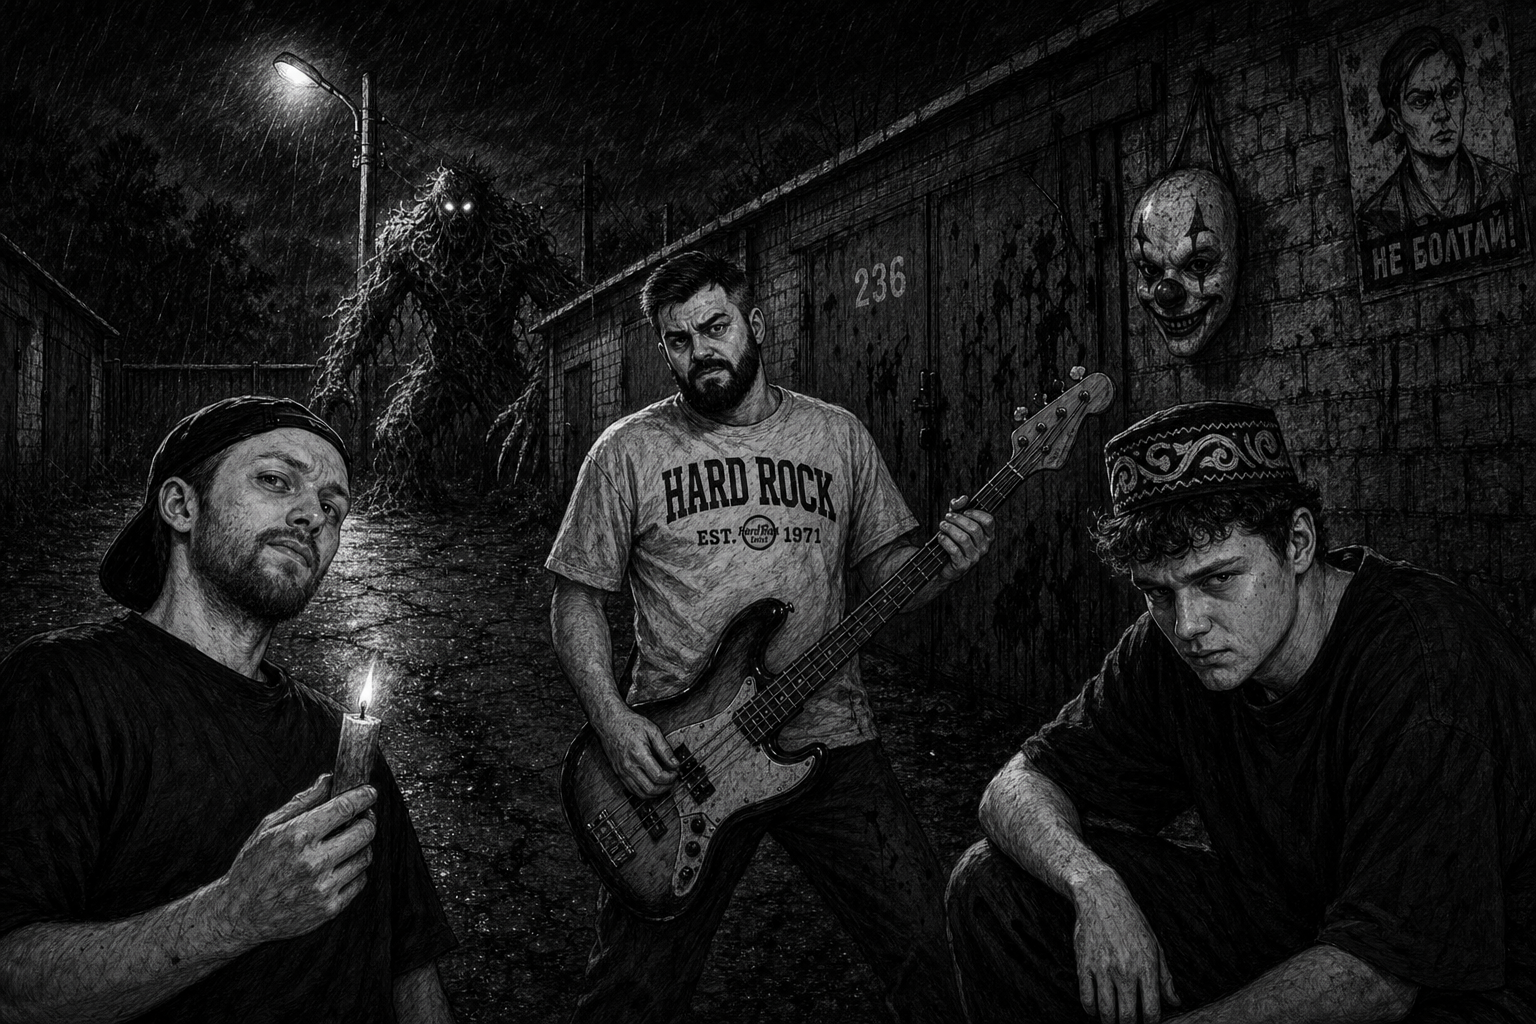
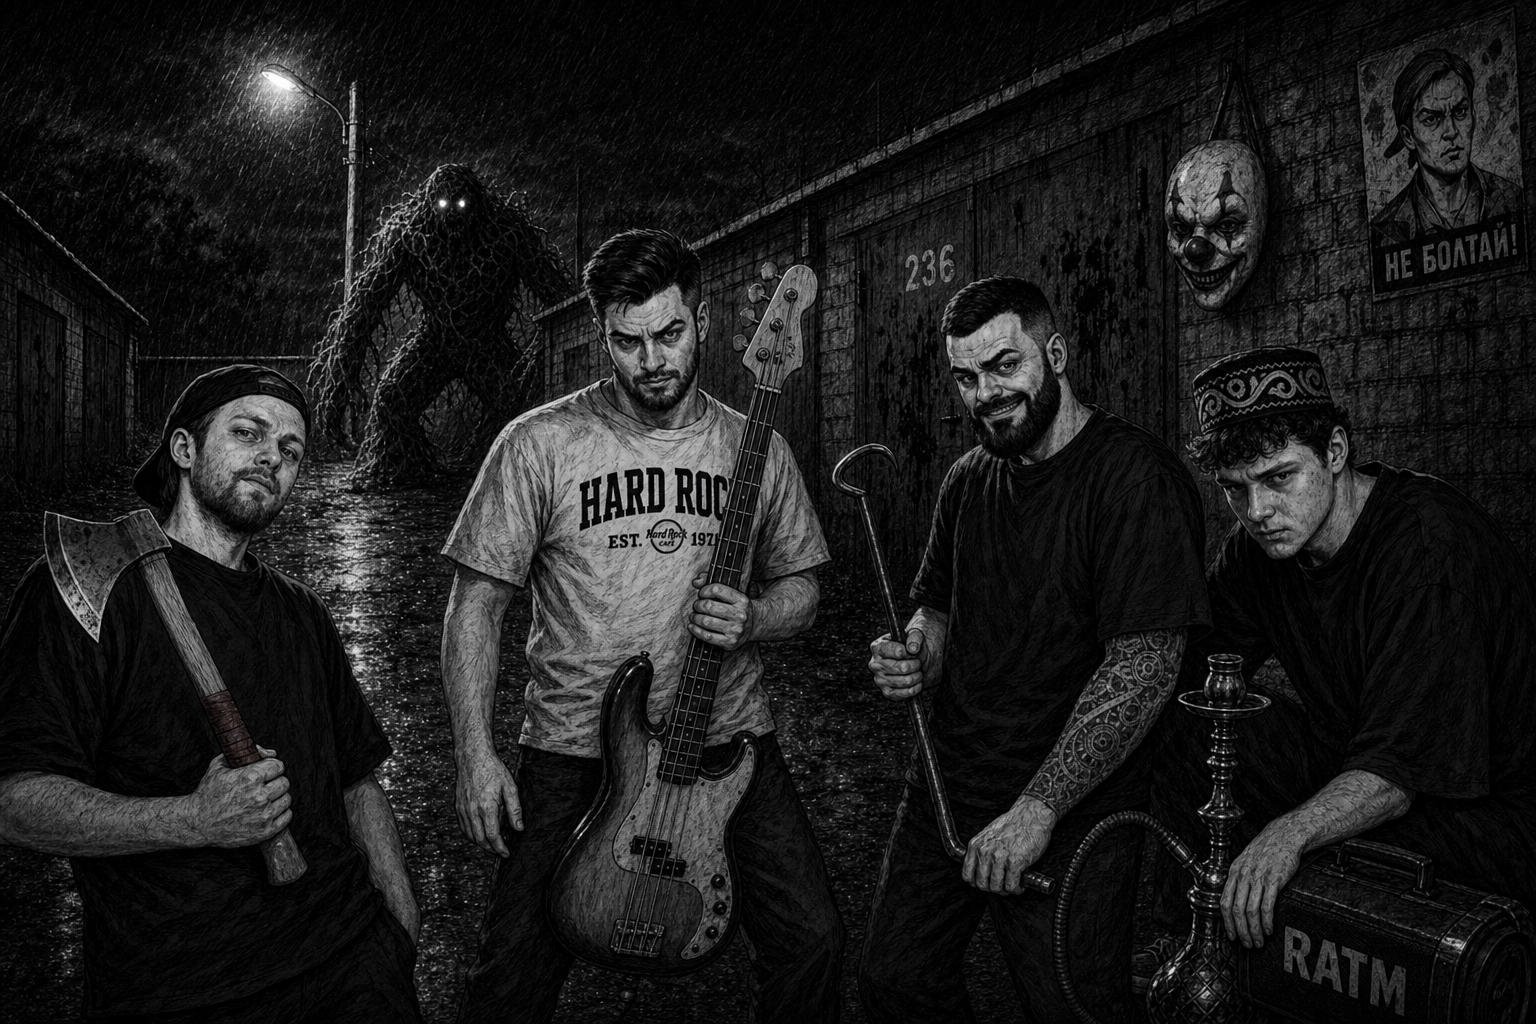
Polish title screen with full-bleed background art.

diff --git a/src/styles.css b/src/styles.css
@@ -89,6 +89,39 @@ button {
   padding: 2rem;
 }
 
+.title-bg {
+  position: absolute;
+  inset: 0;
+  z-index: 0;
+  width: 100%;
+  height: 100%;
+  object-fit: cover;
+  object-position: center 40%;
+  filter: grayscale(1) contrast(1.08) brightness(0.95);
+  animation: title-bg-in 1.1s ease-out both;
+}
+
+.title-bg-shade {
+  position: absolute;
+  inset: 0;
+  z-index: 1;
+  pointer-events: none;
+  background:
+    radial-gradient(ellipse at 50% 34%, rgba(0, 0, 0, 0.28) 6%, rgba(0, 0, 0, 0.52) 46%, rgba(0, 0, 0, 0.78) 100%),
+    linear-gradient(180deg, rgba(0, 0, 0, 0.25) 0%, transparent 38%, rgba(0, 0, 0, 0.35) 100%);
+}
+
+@keyframes title-bg-in {
+  from {
+    opacity: 0;
+    transform: scale(1.04);
+  }
+  to {
+    opacity: 1;
+    transform: none;
+  }
+}
+
 .title-frame {
   position: relative;
   z-index: 2;
@@ -96,13 +129,14 @@ button {
   padding: 2.5rem 2rem 2rem;
   text-align: center;
   background:
-    linear-gradient(180deg, rgba(30, 28, 24, 0.92), rgba(12, 12, 12, 0.95));
+    linear-gradient(180deg, rgba(30, 28, 24, 0.88), rgba(12, 12, 12, 0.92));
   border: 2px solid var(--paper-dim);
   box-shadow:
     0 0 0 6px var(--ink),
     0 0 0 8px var(--smoke),
     0 30px 80px rgba(0, 0, 0, 0.55);
   animation: title-in 0.7s ease-out both;
+  backdrop-filter: blur(2px);
 }
 
 @keyframes title-in {

diff --git a/src/components/TitleScreen.tsx b/src/components/TitleScreen.tsx
@@ -7,6 +7,14 @@ type Props = {
 export function TitleScreen({ onStart }: Props) {
   return (
     <div className="screen title-screen">
+      <img
+        className="title-bg"
+        src={`${import.meta.env.BASE_URL}title-bg.png?v=all4`}
+        alt=""
+        aria-hidden
+        draggable={false}
+      />
+      <div className="title-bg-shade" aria-hidden />
       <div className="ink-noise" aria-hidden />
       <div className="title-frame">
         <p className="title-kicker">visual novel</p>